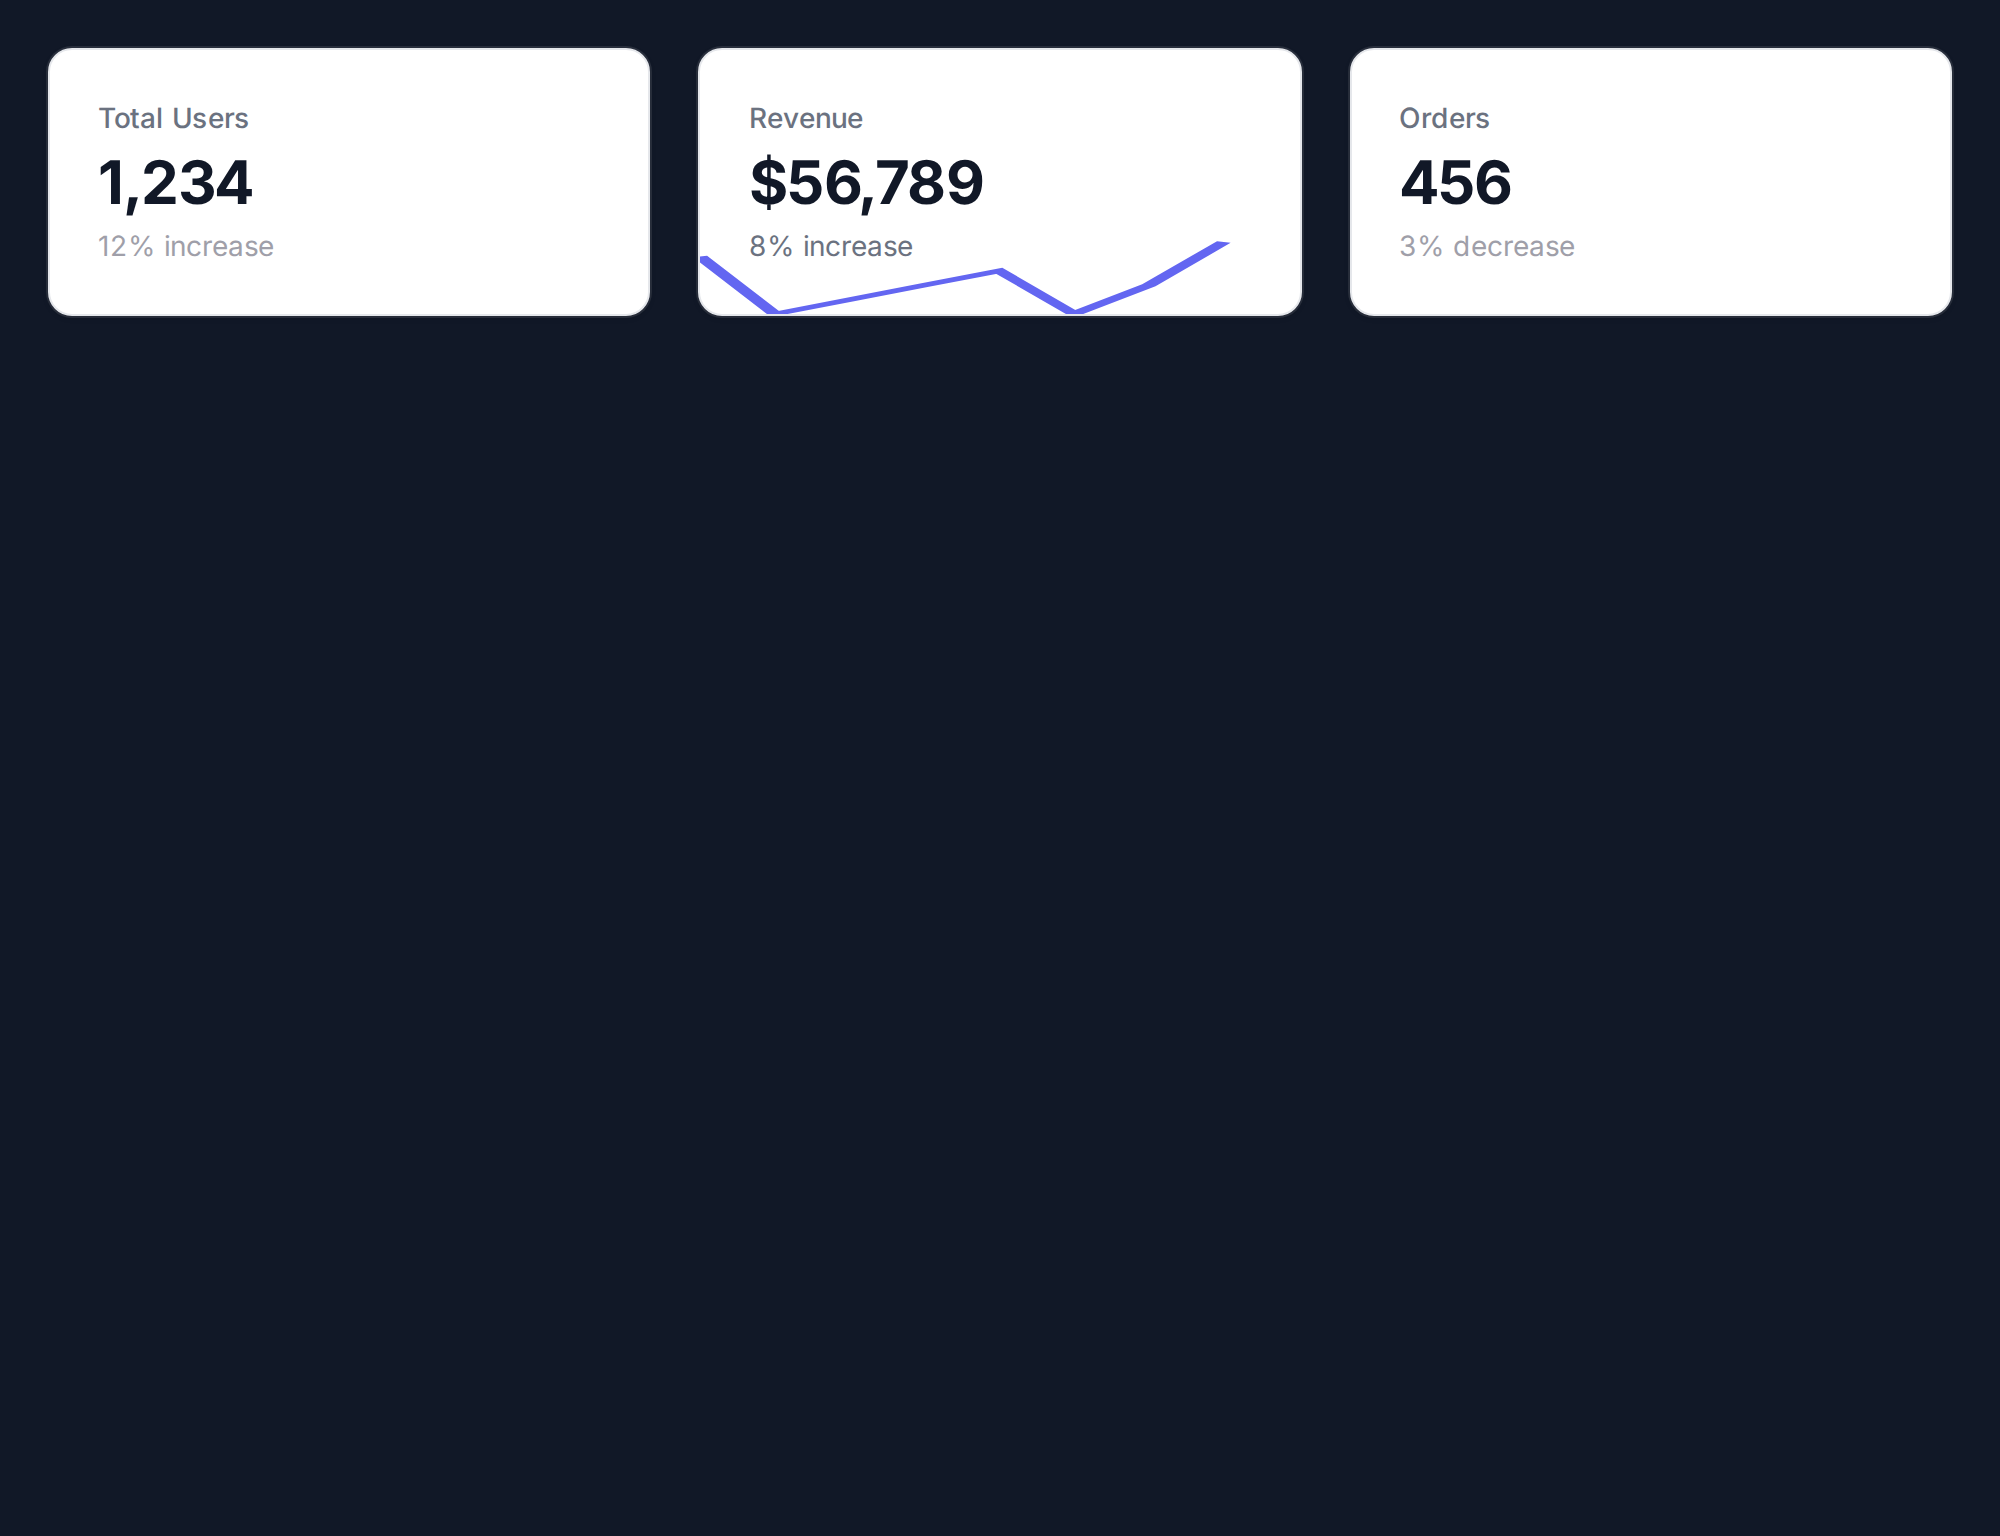
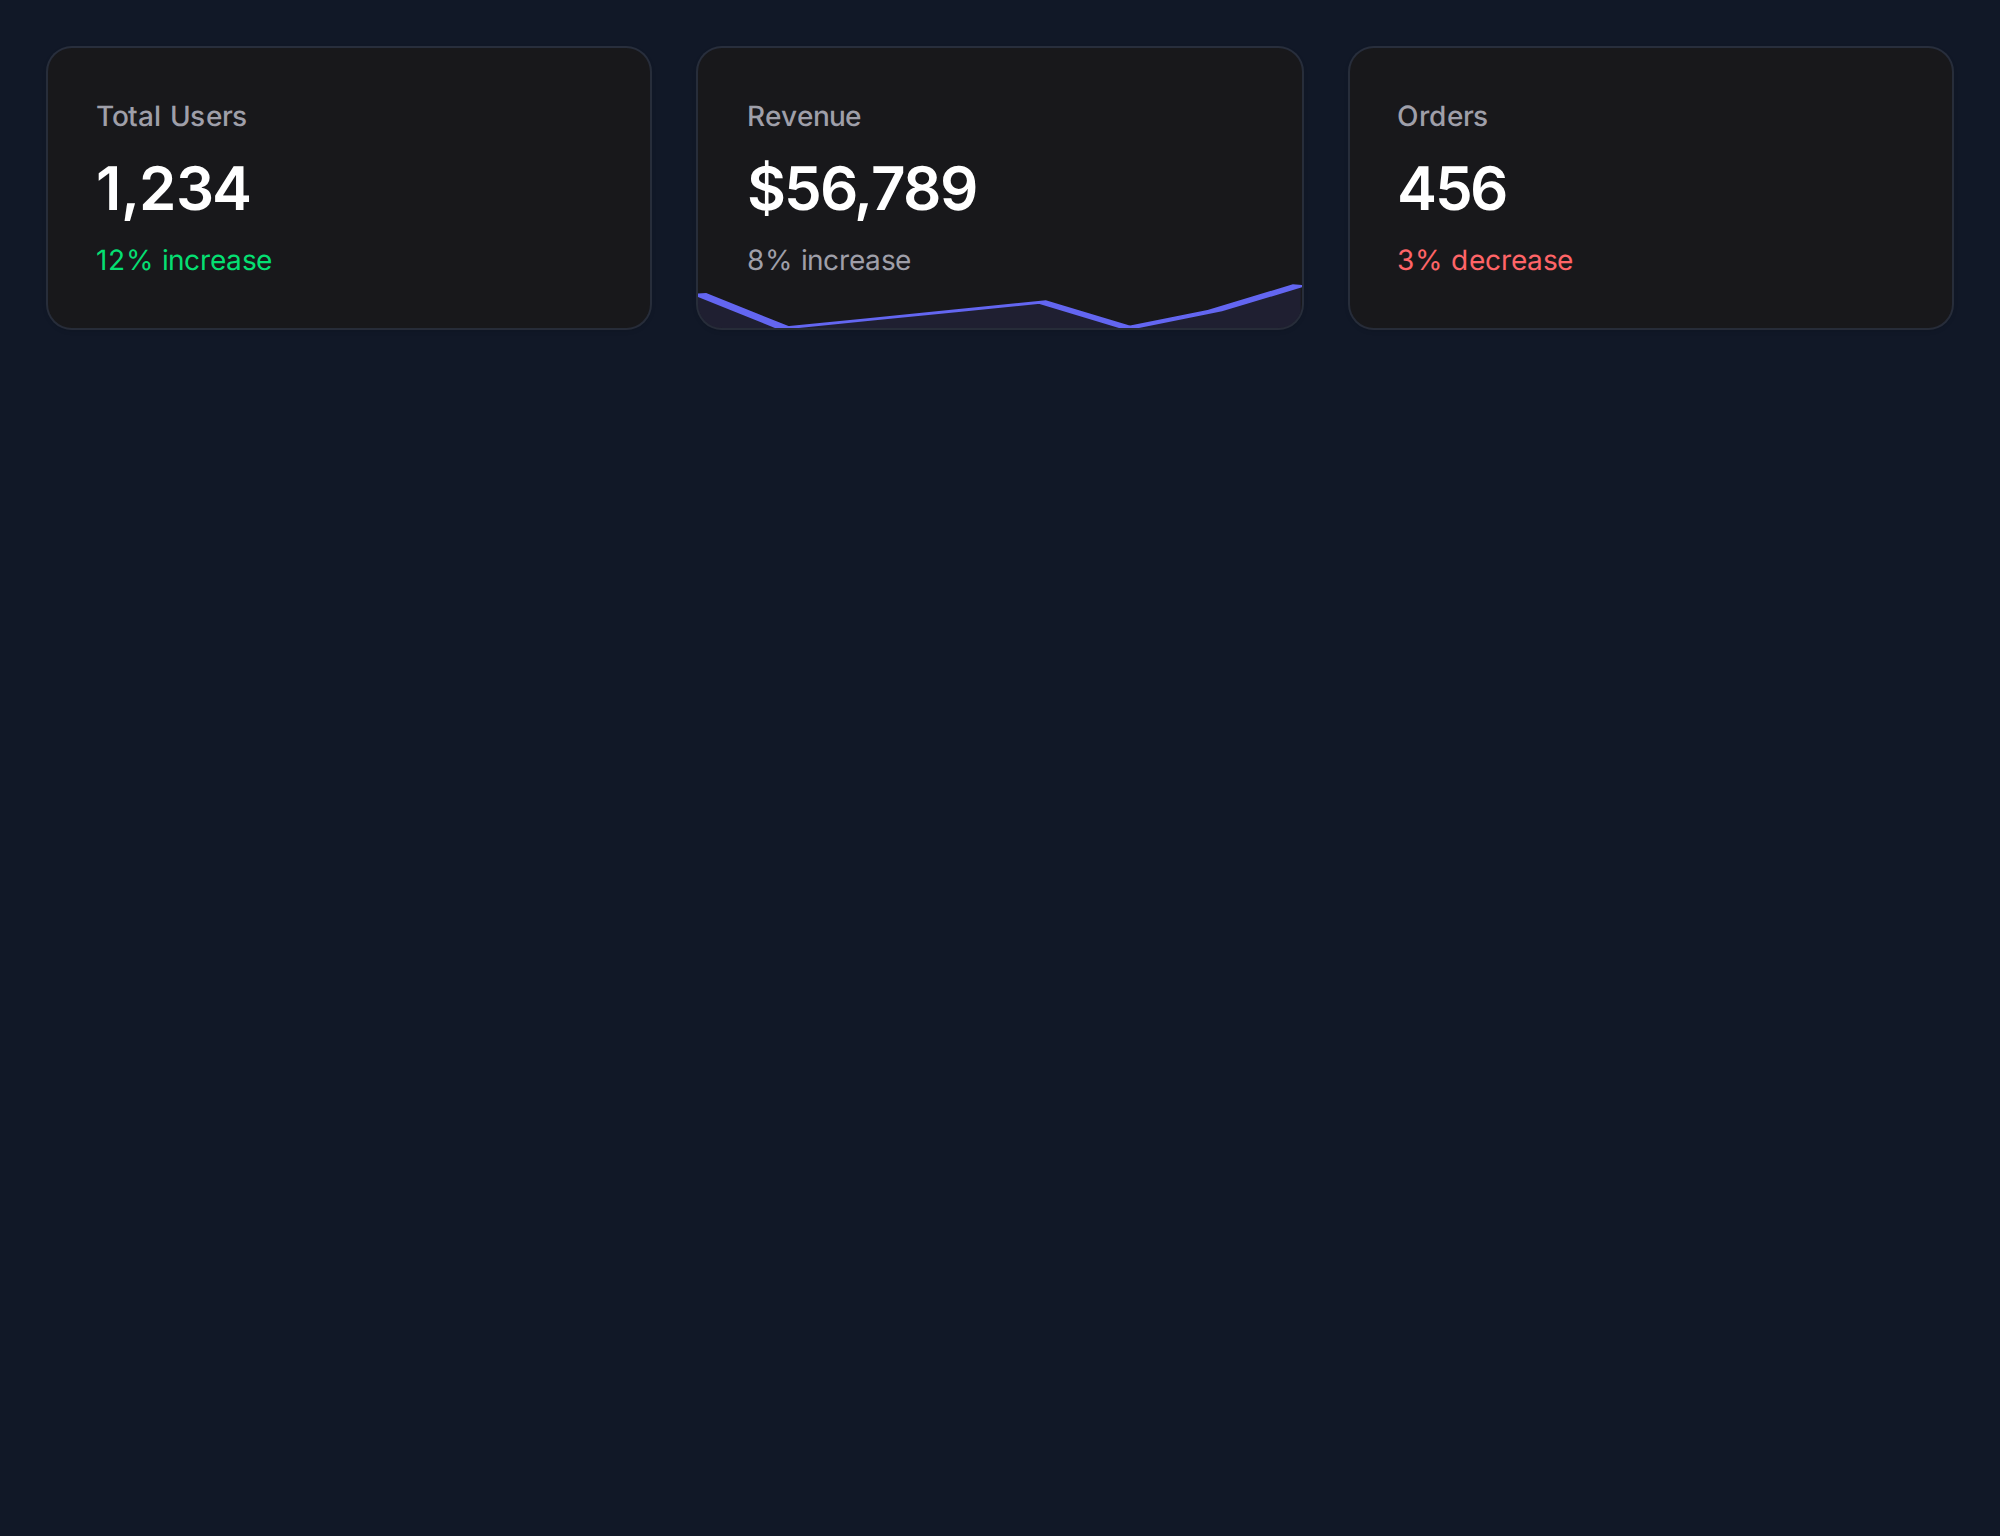
Use Filament CSS classes for stats widget template
- Replace inline styles with Filament CSS classes (fi-wi-stats-overview-stat,
  fi-wi-stats-overview-stat-label, fi-wi-stats-overview-stat-value, etc.)
- Use FilamentColor::getComponentClasses() for description color classes
- Render description icons via x-filament::icon component
- Add fill area to SVG chart for better visual appearance
- Dark mode now works correctly (dark card backgrounds, light text)

Changed region(s): [[0.0, 0.0312, 0.992, 0.2188]]

diff --git a/resources/views/components/stats.blade.php b/resources/views/components/stats.blade.php
@@ -1,51 +1,61 @@
 <div class="fi-wi-stats-overview" style="display: grid; grid-template-columns: repeat({{ count($stats) }}, minmax(0, 1fr)); gap: 1.5rem;">
     @foreach($stats as $stat)
-        <div class="fi-wi-stats-overview-stat" style="background-color: white; border-radius: 0.75rem; border: 1px solid #e5e7eb; padding: 1.5rem; position: relative; overflow: hidden;">
-            <div style="display: flex; align-items: center; gap: 0.5rem;">
-                @if($stat['icon'])
-                    <span style="color: {{ $stat['color'] ?? '#6b7280' }};">
-                        <!-- icon: {{ $stat['icon'] }} -->
+        <div class="fi-wi-stats-overview-stat">
+            <div class="fi-wi-stats-overview-stat-content">
+                <div class="fi-wi-stats-overview-stat-label-ctn">
+                    <span class="fi-wi-stats-overview-stat-label">
+                        {{ $stat['label'] }}
                     </span>
-                @endif
-                <span class="fi-wi-stats-overview-stat-label" style="font-size: 0.875rem; font-weight: 500; color: #6b7280;">
-                    {{ $stat['label'] }}
-                </span>
-            </div>
-
-            <div class="fi-wi-stats-overview-stat-value" style="font-size: 1.875rem; font-weight: 700; color: #111827; margin-top: 0.25rem;">
-                {{ $stat['value'] }}
-            </div>
-
-            @if($stat['description'])
-                <div class="fi-wi-stats-overview-stat-description" style="display: flex; align-items: center; gap: 0.25rem; margin-top: 0.25rem; font-size: 0.875rem; color: {{ $stat['descriptionColor'] ?? '#6b7280' }};">
-                    @if($stat['descriptionIcon'] && ($stat['descriptionIconPosition'] ?? 'before') === 'before')
-                        <span><!-- icon: {{ $stat['descriptionIcon'] }} --></span>
-                    @endif
-                    <span>{{ $stat['description'] }}</span>
-                    @if($stat['descriptionIcon'] && ($stat['descriptionIconPosition'] ?? 'before') === 'after')
-                        <span><!-- icon: {{ $stat['descriptionIcon'] }} --></span>
-                    @endif
                 </div>
-            @endif
+
+                <div class="fi-wi-stats-overview-stat-value">
+                    {{ $stat['value'] }}
+                </div>
+
+                @if($stat['description'])
+                    <div class="fi-wi-stats-overview-stat-description {{ $stat['descriptionColorClasses'] ?? '' }}">
+                        @if($stat['descriptionIcon'] && ($stat['descriptionIconPosition'] ?? 'before') === 'before')
+                            <x-filament::icon
+                                :icon="$stat['descriptionIcon']"
+                                class="fi-wi-stats-overview-stat-description-icon"
+                            />
+                        @endif
+                        <span>{{ $stat['description'] }}</span>
+                        @if($stat['descriptionIcon'] && ($stat['descriptionIconPosition'] ?? 'before') === 'after')
+                            <x-filament::icon
+                                :icon="$stat['descriptionIcon']"
+                                class="fi-wi-stats-overview-stat-description-icon"
+                            />
+                        @endif
+                    </div>
+                @endif
+            </div>
 
             @if($stat['chart'])
-                <div class="fi-wi-stats-overview-stat-chart" style="margin-top: 0.75rem; height: 2.5rem;">
-                    <svg viewBox="0 0 {{ count($stat['chart']) * 10 }} 40" style="width: 100%; height: 100%;" preserveAspectRatio="none">
+                <div class="fi-wi-stats-overview-stat-chart" style="position: absolute; inset-inline: 0; bottom: 0; overflow: hidden; border-radius: 0 0 0.75rem 0.75rem;">
+                    <svg viewBox="0 0 {{ (count($stat['chart']) - 1) * 10 }} 40" style="width: 100%; height: 1.5rem; display: block;" preserveAspectRatio="none">
                         @php
                             $max = max($stat['chart']);
                             $min = min($stat['chart']);
                             $range = $max - $min ?: 1;
-                            $points = collect($stat['chart'])->map(function ($v, $i) use ($range, $min, $stat) {
+                            $chartPoints = collect($stat['chart'])->map(function ($v, $i) use ($range, $min) {
                                 $x = $i * 10;
                                 $y = 40 - (($v - $min) / $range * 36);
                                 return "$x,$y";
                             })->implode(' ');
+                            $fillPoints = '0,40 ' . $chartPoints . ' ' . ((count($stat['chart']) - 1) * 10) . ',40';
+                            $primaryColor = config('filament-shot.theme.primary_color', '#6366f1');
                         @endphp
+                        <polygon
+                            fill="{{ $primaryColor }}"
+                            fill-opacity="0.1"
+                            points="{{ $fillPoints }}"
+                        />
                         <polyline
                             fill="none"
-                            stroke="{{ $stat['color'] ?? '#6366f1' }}"
+                            stroke="{{ $primaryColor }}"
                             stroke-width="2"
-                            points="{{ $points }}"
+                            points="{{ $chartPoints }}"
                         />
                     </svg>
                 </div>

diff --git a/src/Renderers/StatsRenderer.php b/src/Renderers/StatsRenderer.php
@@ -2,6 +2,9 @@
 
 namespace CCK\FilamentShot\Renderers;
 
+use Filament\Support\Facades\FilamentColor;
+use Filament\Widgets\View\Components\StatsOverviewWidgetComponent\StatComponent\DescriptionComponent;
+
 class StatsRenderer extends BaseRenderer
 {
     public function __construct(
@@ -19,16 +22,23 @@ class StatsRenderer extends BaseRenderer
 
     protected function extractStatData(object $stat): array
     {
+        $descriptionColor = $this->safeCall(fn () => $stat->getDescriptionColor(), null);
+        $chartColor = $this->safeCall(fn () => $stat->getChartColor(), null);
+
         return [
             'label' => $this->safeCall(fn () => $stat->getLabel(), ''),
             'value' => $this->safeCall(fn () => $stat->getValue(), ''),
             'description' => $this->safeCall(fn () => $stat->getDescription(), null),
             'descriptionIcon' => $this->safeCall(fn () => $stat->getDescriptionIcon(), null),
             'descriptionIconPosition' => $this->safeCall(fn () => $stat->getDescriptionIconPosition(), 'before'),
-            'descriptionColor' => $this->safeCall(fn () => $stat->getDescriptionColor(), null),
+            'descriptionColor' => $descriptionColor,
+            'descriptionColorClasses' => $descriptionColor
+                ? implode(' ', FilamentColor::getComponentClasses(DescriptionComponent::class, $descriptionColor))
+                : '',
             'icon' => $this->safeCall(fn () => $stat->getIcon(), null),
             'color' => $this->safeCall(fn () => $stat->getColor(), null),
             'chart' => $this->safeCall(fn () => $stat->getChart(), null),
+            'chartColor' => $chartColor,
         ];
     }
 }
